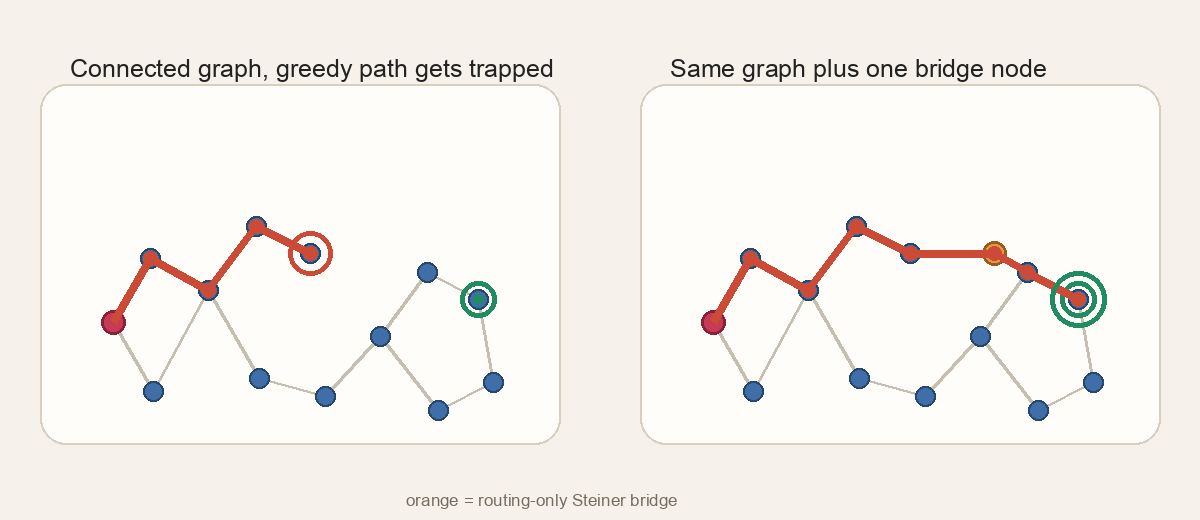
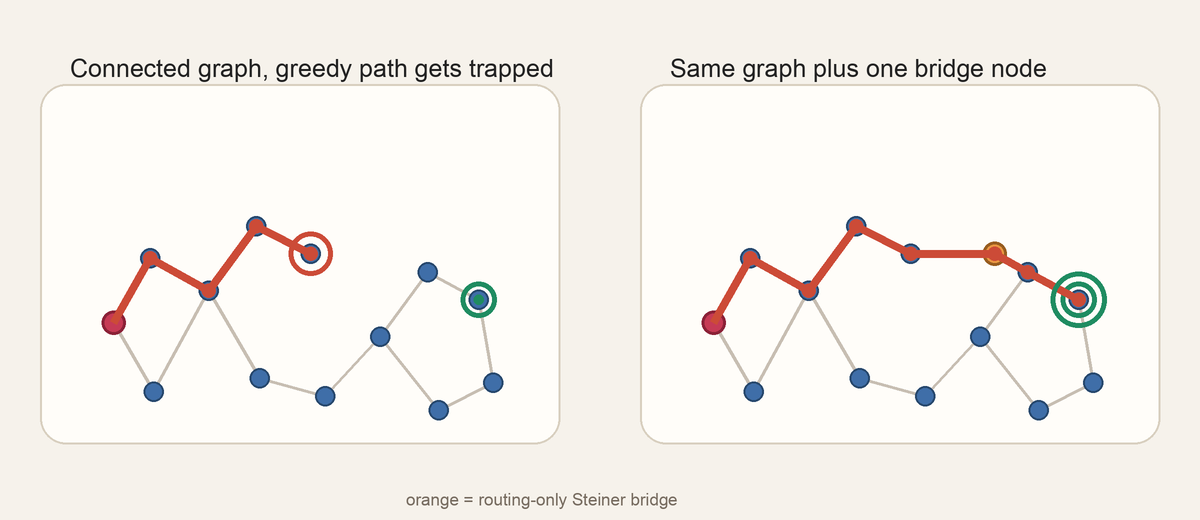
Add animated bridge demo for README

diff --git a/scripts/render_bridge_demo_png.py b/scripts/render_bridge_demo_png.py
@@ -6,9 +6,11 @@ from PIL import Image, ImageDraw, ImageFont
 
 
 ROOT = Path(__file__).resolve().parents[1]
-OUT = ROOT / "docs" / "figures" / "bridge_navigation_demo.png"
+OUT_PNG = ROOT / "docs" / "figures" / "bridge_navigation_demo.png"
+OUT_GIF = ROOT / "docs" / "figures" / "bridge_navigation_demo.gif"
 
 W, H = 1200, 520
+SCALE = 2
 BG = (246, 242, 235)
 PANEL = (255, 253, 249)
 BORDER = (216, 207, 191)
@@ -21,8 +23,8 @@ TARGET = (31, 140, 97)
 PATH = (204, 75, 55)
 BRIDGE = (234, 151, 66)
 BRIDGE_STROKE = (151, 92, 31)
-TEXT = (34, 34, 34)
 SUBTLE = (118, 107, 95)
+TEXT = (34, 34, 34)
 
 
 def _font(size: int):
@@ -36,8 +38,8 @@ def _font(size: int):
     return ImageFont.load_default()
 
 
-FT = _font(25)
-FC = _font(17)
+FT = _font(25 * SCALE)
+FC = _font(17 * SCALE)
 
 POS = {
     "A": (90, 240),
@@ -77,62 +79,190 @@ EDGES = [
 def p(panel_x: int, key: str):
     x, y = POS[key]
     return (
-        int(panel_x + 8 + x * 0.73),
-        int(84 + 18 + y * 0.92),
+        int((panel_x + 8 + x * 0.73) * SCALE),
+        int((84 + 18 + y * 0.92) * SCALE),
     )
 
 
 def circle(draw: ImageDraw.ImageDraw, xy, r, fill, outline=None, width=1):
     x, y = xy
-    draw.ellipse((x - r, y - r, x + r, y + r), fill=fill, outline=outline, width=width)
+    draw.ellipse(
+        (x - r * SCALE, y - r * SCALE, x + r * SCALE, y + r * SCALE),
+        fill=fill,
+        outline=outline,
+        width=max(1, int(width * SCALE)),
+    )
 
 
-def panel(draw: ImageDraw.ImageDraw, x0: int, title: str, bridged: bool):
-    draw.rounded_rectangle((x0, 84, x0 + 520, 444), radius=26, fill=PANEL, outline=BORDER, width=2)
-    draw.text((x0 + 30, 54), title, fill=TEXT, font=FT)
+def _interp(a: tuple[int, int], b: tuple[int, int], t: float) -> tuple[int, int]:
+    return (
+        int(round(a[0] + (b[0] - a[0]) * t)),
+        int(round(a[1] + (b[1] - a[1]) * t)),
+    )
+
+
+def draw_partial_path(draw: ImageDraw.ImageDraw, panel_x: int, keys: list[str], progress: float):
+    points = [p(panel_x, key) for key in keys]
+    total_segments = len(points) - 1
+    completed = max(0, min(total_segments, int(progress)))
+    partial = max(0.0, min(1.0, progress - completed))
+
+    if completed > 0:
+        draw.line(
+            points[: completed + 1],
+            fill=PATH,
+            width=8 * SCALE,
+            joint="curve",
+        )
+    if completed < total_segments and partial > 0:
+        seg = [points[completed], _interp(points[completed], points[completed + 1], partial)]
+        draw.line(seg, fill=PATH, width=8 * SCALE, joint="curve")
+
+    visible_visits = completed + (1 if partial > 0 else 0)
+    for idx, key in enumerate(keys[1:]):
+        if idx < visible_visits:
+            circle(draw, p(panel_x, key), 7, PATH)
+
+
+def panel(
+    draw: ImageDraw.ImageDraw,
+    x0: int,
+    title: str,
+    bridged: bool,
+    *,
+    left_progress: float | None = None,
+    right_progress: float | None = None,
+    show_deadend: bool = False,
+    show_success: bool = False,
+    show_bridge: bool = False,
+):
+    draw.rounded_rectangle(
+        (x0 * SCALE, 84 * SCALE, (x0 + 520) * SCALE, 444 * SCALE),
+        radius=26 * SCALE,
+        fill=PANEL,
+        outline=BORDER,
+        width=2 * SCALE,
+    )
+    draw.text((int((x0 + 30) * SCALE), 54 * SCALE), title, fill=TEXT, font=FT)
 
     for a, b in EDGES:
-        draw.line((p(x0, a), p(x0, b)), fill=EDGE, width=3)
+        draw.line((p(x0, a), p(x0, b)), fill=EDGE, width=3 * SCALE)
 
-    if bridged:
-        draw.line((p(x0, "G"), p(x0, "S")), fill=BRIDGE, width=5)
-        draw.line((p(x0, "S"), p(x0, "J")), fill=BRIDGE, width=5)
+    if bridged and show_bridge:
+        draw.line((p(x0, "G"), p(x0, "S")), fill=BRIDGE, width=5 * SCALE)
+        draw.line((p(x0, "S"), p(x0, "J")), fill=BRIDGE, width=5 * SCALE)
 
-    for key in ["A","B","C","D","E","F","G","H","I","J","K","L","M"]:
+    for key in ["A", "B", "C", "D", "E", "F", "G", "H", "I", "J", "K", "L", "M"]:
         if key == "A":
             circle(draw, p(x0, key), 12, START, START_STROKE, 3)
         else:
             circle(draw, p(x0, key), 10, NODE, NODE_STROKE, 2)
 
-    if bridged:
+    if bridged and show_bridge:
         circle(draw, p(x0, "S"), 12, BRIDGE, BRIDGE_STROKE, 3)
 
     circle(draw, p(x0, "L"), 18, None, TARGET, 5)
     circle(draw, p(x0, "L"), 5, TARGET)
 
-    if bridged:
-        path = ["A", "B", "D", "E", "G", "S", "J", "L"]
-    else:
-        path = ["A", "B", "D", "E", "G"]
-    draw.line([p(x0, k) for k in path], fill=PATH, width=8, joint="curve")
-    for key in path[1:]:
-        circle(draw, p(x0, key), 7, PATH)
+    if not bridged and left_progress is not None:
+        draw_partial_path(draw, x0, ["A", "B", "D", "E", "G"], left_progress)
+    if bridged and right_progress is not None:
+        draw_partial_path(draw, x0, ["A", "B", "D", "E", "G", "S", "J", "L"], right_progress)
 
-    if bridged:
+    if show_success:
         circle(draw, p(x0, "L"), 28, None, TARGET, 5)
-    else:
+    if show_deadend:
         circle(draw, p(x0, "G"), 22, None, PATH, 5)
 
 
-def main():
-    OUT.parent.mkdir(parents=True, exist_ok=True)
-    img = Image.new("RGB", (W, H), BG)
+def _base_frame():
+    img = Image.new("RGB", (W * SCALE, H * SCALE), BG)
     draw = ImageDraw.Draw(img)
-    panel(draw, 40, "Connected graph, greedy path gets trapped", False)
-    panel(draw, 640, "Same graph plus one bridge node", True)
-    draw.text((406, 490), "orange = routing-only Steiner bridge", fill=SUBTLE, font=FC)
-    img.save(OUT)
-    print(OUT)
+    draw.text((406 * SCALE, 490 * SCALE), "orange = routing-only Steiner bridge", fill=SUBTLE, font=FC)
+    return img, draw
+
+
+def render_png():
+    OUT_PNG.parent.mkdir(parents=True, exist_ok=True)
+    img, draw = _base_frame()
+    panel(
+        draw,
+        40,
+        "Connected graph, greedy path gets trapped",
+        False,
+        left_progress=4.0,
+        show_deadend=True,
+    )
+    panel(
+        draw,
+        640,
+        "Same graph plus one bridge node",
+        True,
+        right_progress=7.0,
+        show_bridge=True,
+        show_success=True,
+    )
+    img = img.resize((W, H), resample=Image.Resampling.LANCZOS)
+    img.save(OUT_PNG)
+
+
+def render_gif():
+    frame_specs = [
+        {"left": 0.6, "right": 0.0, "bridge": False, "deadend": False, "success": False, "duration": 180},
+        {"left": 1.4, "right": 0.0, "bridge": False, "deadend": False, "success": False, "duration": 180},
+        {"left": 2.2, "right": 0.0, "bridge": False, "deadend": False, "success": False, "duration": 180},
+        {"left": 3.2, "right": 0.0, "bridge": False, "deadend": False, "success": False, "duration": 200},
+        {"left": 4.0, "right": 0.0, "bridge": False, "deadend": True, "success": False, "duration": 420},
+        {"left": 4.0, "right": 0.0, "bridge": True, "deadend": True, "success": False, "duration": 220},
+        {"left": 4.0, "right": 1.2, "bridge": True, "deadend": False, "success": False, "duration": 180},
+        {"left": 4.0, "right": 2.4, "bridge": True, "deadend": False, "success": False, "duration": 180},
+        {"left": 4.0, "right": 3.6, "bridge": True, "deadend": False, "success": False, "duration": 180},
+        {"left": 4.0, "right": 4.8, "bridge": True, "deadend": False, "success": False, "duration": 180},
+        {"left": 4.0, "right": 6.0, "bridge": True, "deadend": False, "success": False, "duration": 180},
+        {"left": 4.0, "right": 7.0, "bridge": True, "deadend": False, "success": True, "duration": 480},
+    ]
+
+    frames: list[Image.Image] = []
+    durations: list[int] = []
+    for spec in frame_specs:
+        img, draw = _base_frame()
+        panel(
+            draw,
+            40,
+            "Connected graph, greedy path gets trapped",
+            False,
+            left_progress=float(spec["left"]),
+            show_deadend=bool(spec["deadend"]),
+        )
+        panel(
+            draw,
+            640,
+            "Same graph plus one bridge node",
+            True,
+            right_progress=float(spec["right"]),
+            show_bridge=bool(spec["bridge"]),
+            show_success=bool(spec["success"]),
+        )
+        frame = img.resize((W, H), resample=Image.Resampling.LANCZOS)
+        frames.append(frame.convert("P", palette=Image.Palette.ADAPTIVE, colors=255))
+        durations.append(int(spec["duration"]))
+
+    frames[0].save(
+        OUT_GIF,
+        save_all=True,
+        append_images=frames[1:],
+        duration=durations,
+        loop=0,
+        optimize=False,
+        disposal=2,
+    )
+
+
+def main():
+    render_png()
+    render_gif()
+    print(OUT_PNG)
+    print(OUT_GIF)
 
 
 if __name__ == "__main__":

diff --git a/README.md b/README.md
@@ -35,9 +35,9 @@ Representative non-failure-driven results are included below so the repository s
 - full `glove-200-angular`, `1.18M` database, `1000` queries:
   `cluster_centroid` also beats baseline at full scale. By `Recall@10 AUC`, baseline was `0.1018` while `cluster_centroid` reached `0.3099`.
 
-![Conceptual bridge demo](docs/figures/bridge_navigation_demo.png)
+![Conceptual bridge demo](docs/figures/bridge_navigation_demo.gif)
 
-Open `docs/bridge_navigation_demo.html` locally for the animated version of the same bridge concept.
+Open `docs/bridge_navigation_demo.html` locally for the interactive version of the same bridge concept.
 
 ![GloVe 100k cluster-centroid result](docs/figures/glove_100k_cluster_centroid.png)
 